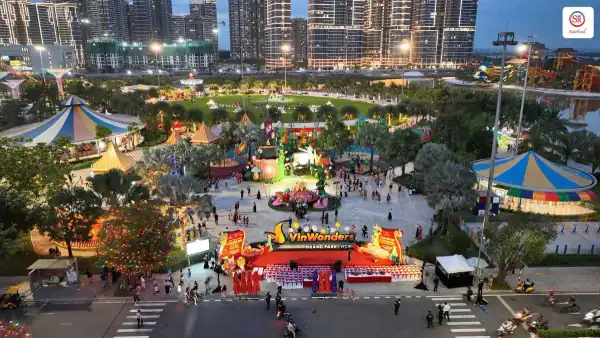
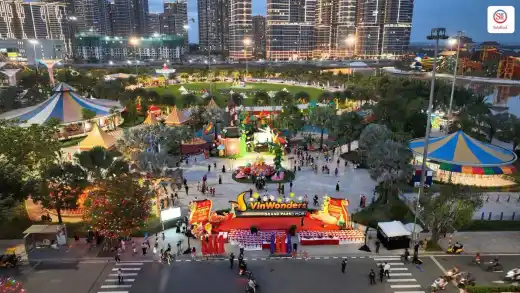
perf: toi uu anh phu trang tin

diff --git a/src/components/NewsList.tsx b/src/components/NewsList.tsx
@@ -57,6 +57,18 @@ function getFeaturedNewsImageUrl(url: string) {
   return localUrl.startsWith('/') ? localUrl : optimizeImageUrl(localUrl, 800);
 }
 
+const NEWS_SUPPORTING_IMAGE_VARIANTS: Record<string, string> = {
+  '/uploads/tien-ich-vinhomes-saigon-park-3-1782158113104.webp': '/uploads/tien-ich-vinhomes-saigon-park-3-1782158113104-news-thumb.webp',
+  '/uploads/vuon-hoa-vinhomes-saigon-park-1-1782671144098.webp': '/uploads/vuon-hoa-vinhomes-saigon-park-1-1782671144098-news-thumb.webp',
+  '/uploads/phoi-canh1-1779376605019.webp': '/uploads/phoi-canh1-1779376605019-news-project.webp',
+};
+
+function getNewsSupportingImageUrl(url: string | undefined, width: number) {
+  if (!url) return undefined;
+  const localUrl = getLocalRepositoryImageUrl(url);
+  return NEWS_SUPPORTING_IMAGE_VARIANTS[localUrl] || optimizeImageUrl(url, width) || undefined;
+}
+
 export default function NewsList({ 
   onNavigate, 
   onShowNotification,
@@ -421,8 +433,8 @@ export default function NewsList({
                         <img
                           src={displayArticleImage}
                           alt={displayArticle?.title || 'Tin tức bất động sản nổi bật'}
-                          width={600}
-                          height={338}
+                          width={520}
+                          height={293}
                           loading="eager"
                           fetchPriority="high"
                           decoding="async"
@@ -584,7 +596,7 @@ export default function NewsList({
                                       {p.type === 'rent' ? 'Cho thuê' : 'Bán'}
                                     </span>
                                   )}
-                                  <img loading="lazy" decoding="async" src={optimizeImageUrl(p.imageUrl || p.imageUrls?.[0], 400) || undefined} alt={p.title} width="100" height="85" className="w-full h-full object-cover group-hover:scale-110 transition-transform duration-500 block" referrerPolicy="no-referrer" />
+                                  <img loading="lazy" decoding="async" src={getNewsSupportingImageUrl(p.imageUrl || p.imageUrls?.[0], 200)} alt={p.title} width="100" height="85" className="w-full h-full object-cover group-hover:scale-110 transition-transform duration-500 block" referrerPolicy="no-referrer" />
                                 </div>
 
                                 <div className="flex-1 flex flex-col justify-center min-w-0">
@@ -698,7 +710,7 @@ export default function NewsList({
                               >
                                 <div className="relative aspect-[16/10] overflow-hidden">
                                   <img loading="lazy" decoding="async"
-                                    src={optimizeImageUrl(p.imageUrl || "https://images.unsplash.com/photo-1545324418-cc1a3fa10c00?auto=format&fit=crop&q=80&w=800", 400) || undefined}
+                                    src={getNewsSupportingImageUrl(p.imageUrl || "https://images.unsplash.com/photo-1545324418-cc1a3fa10c00?auto=format&fit=crop&q=80&w=800", 400)}
                                     alt={p.title}
                                     width="800"
                                     height="500"
